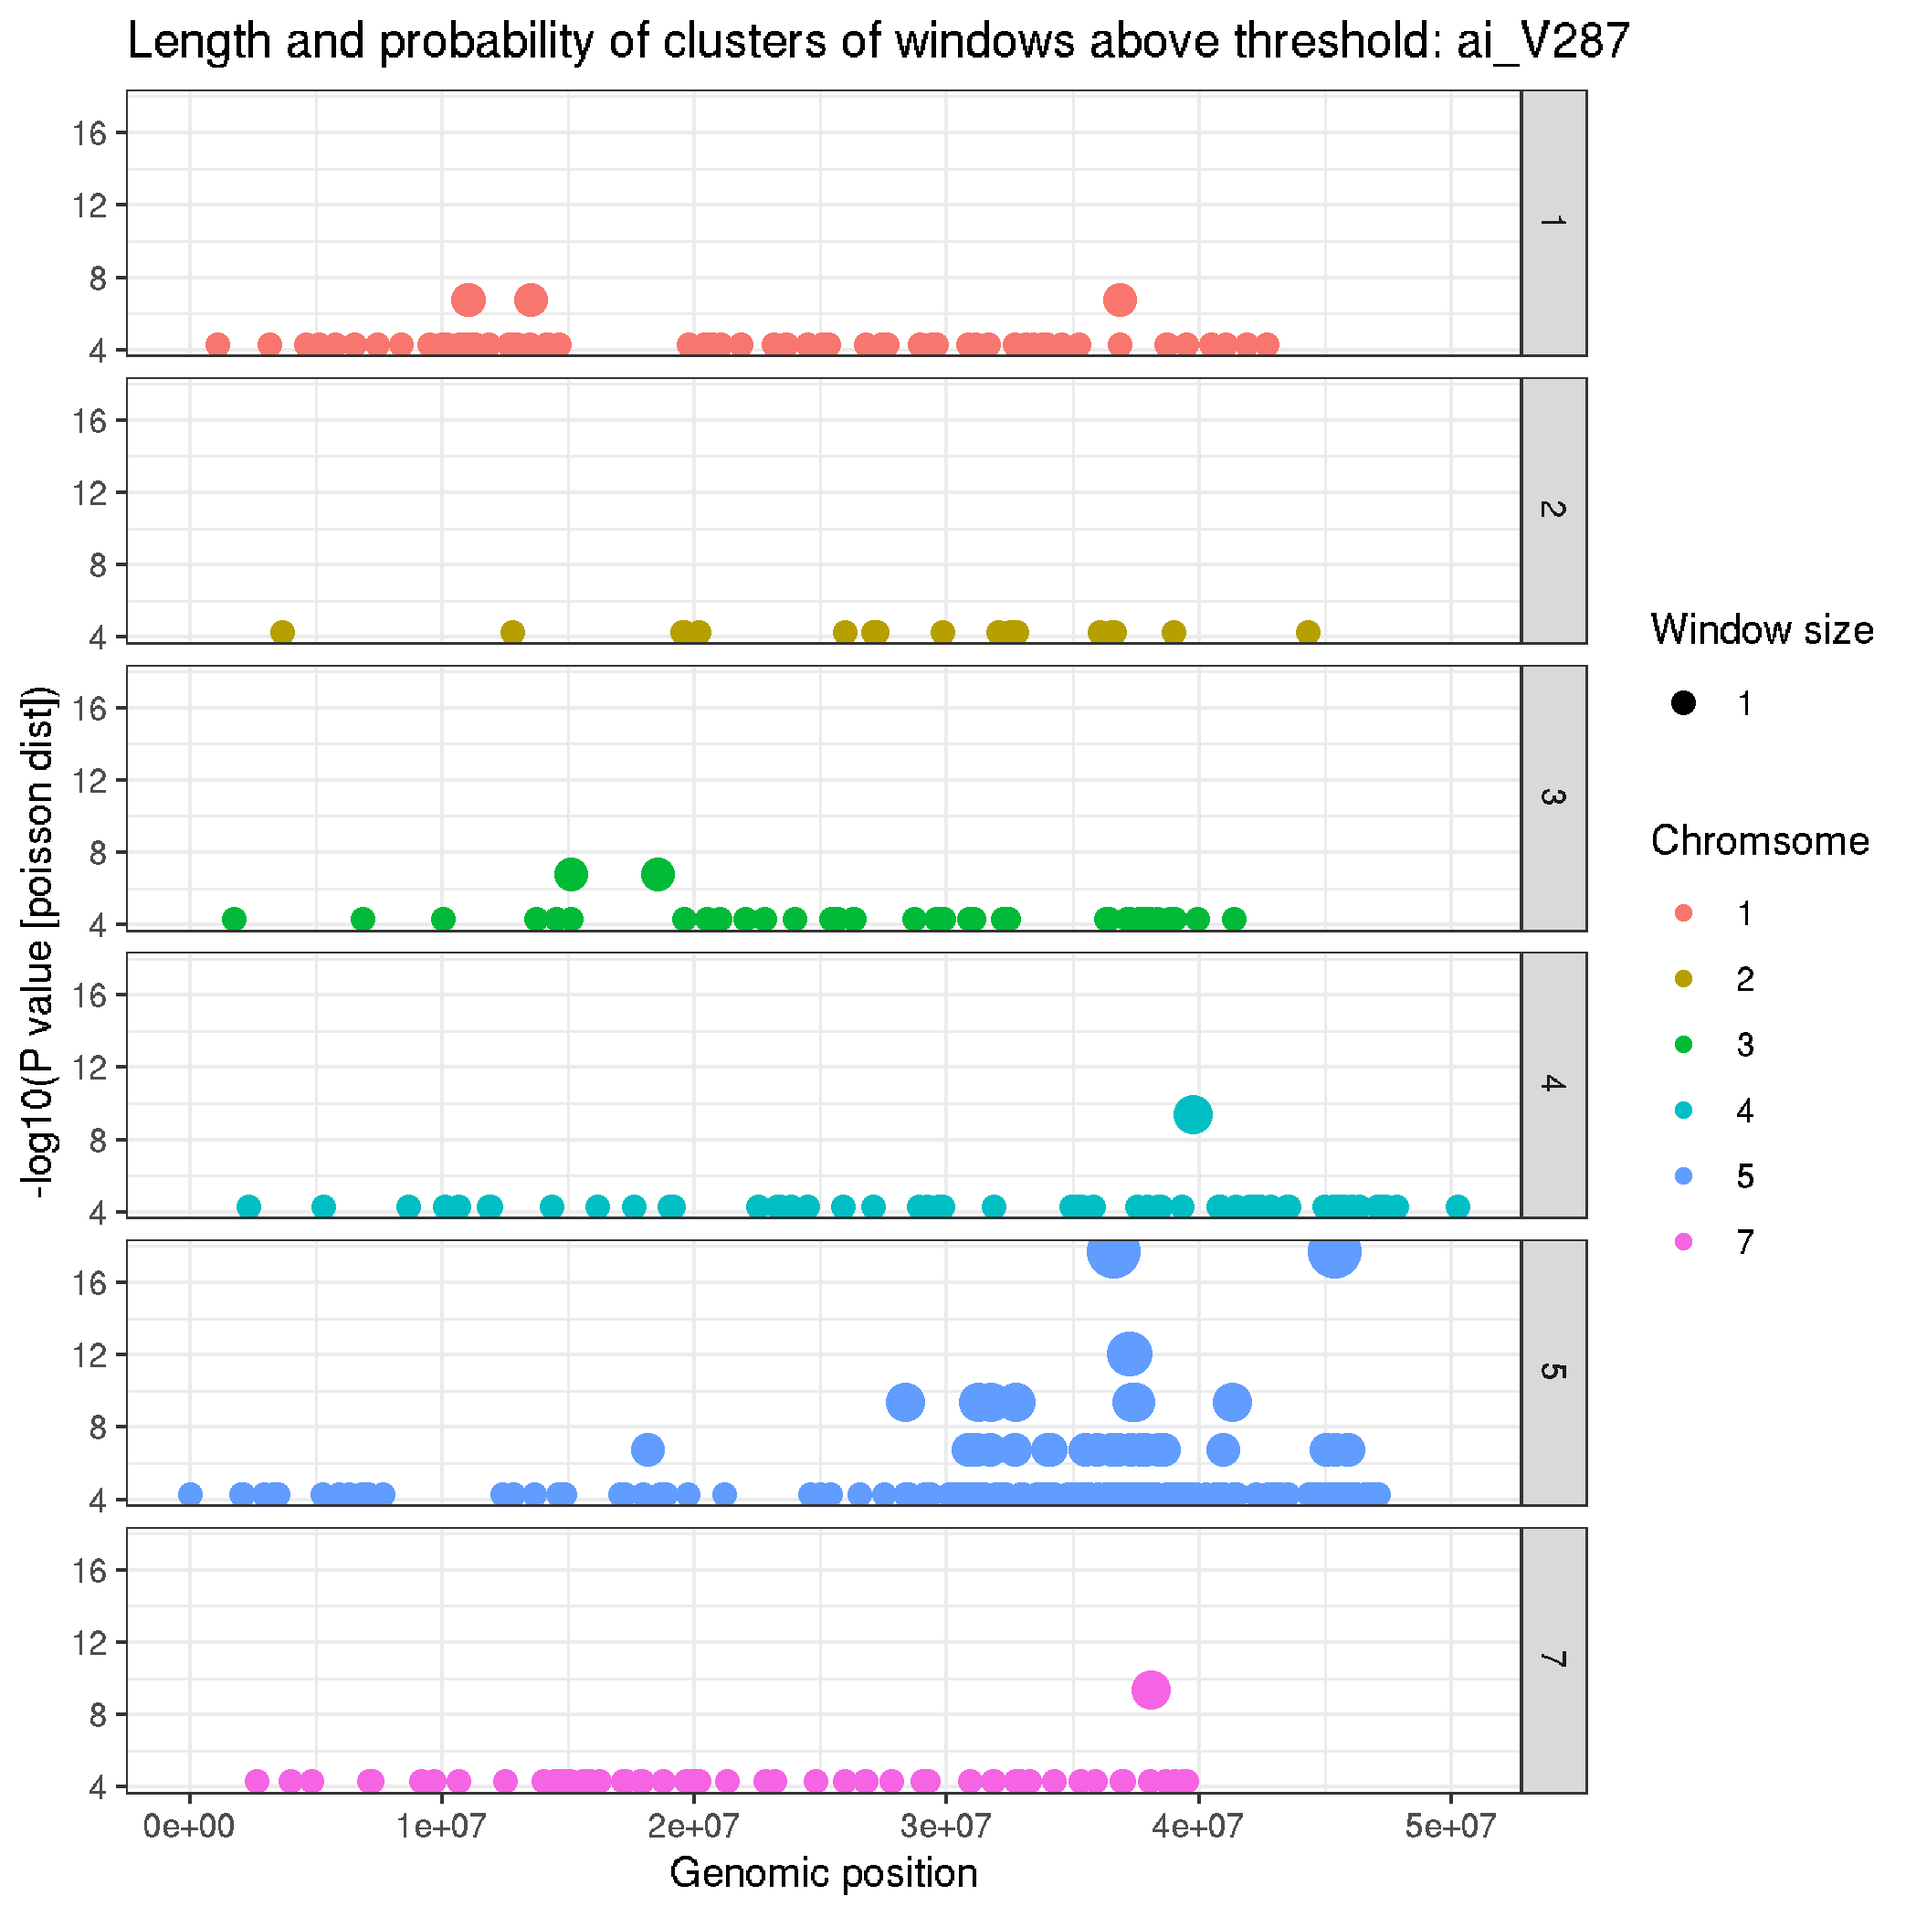
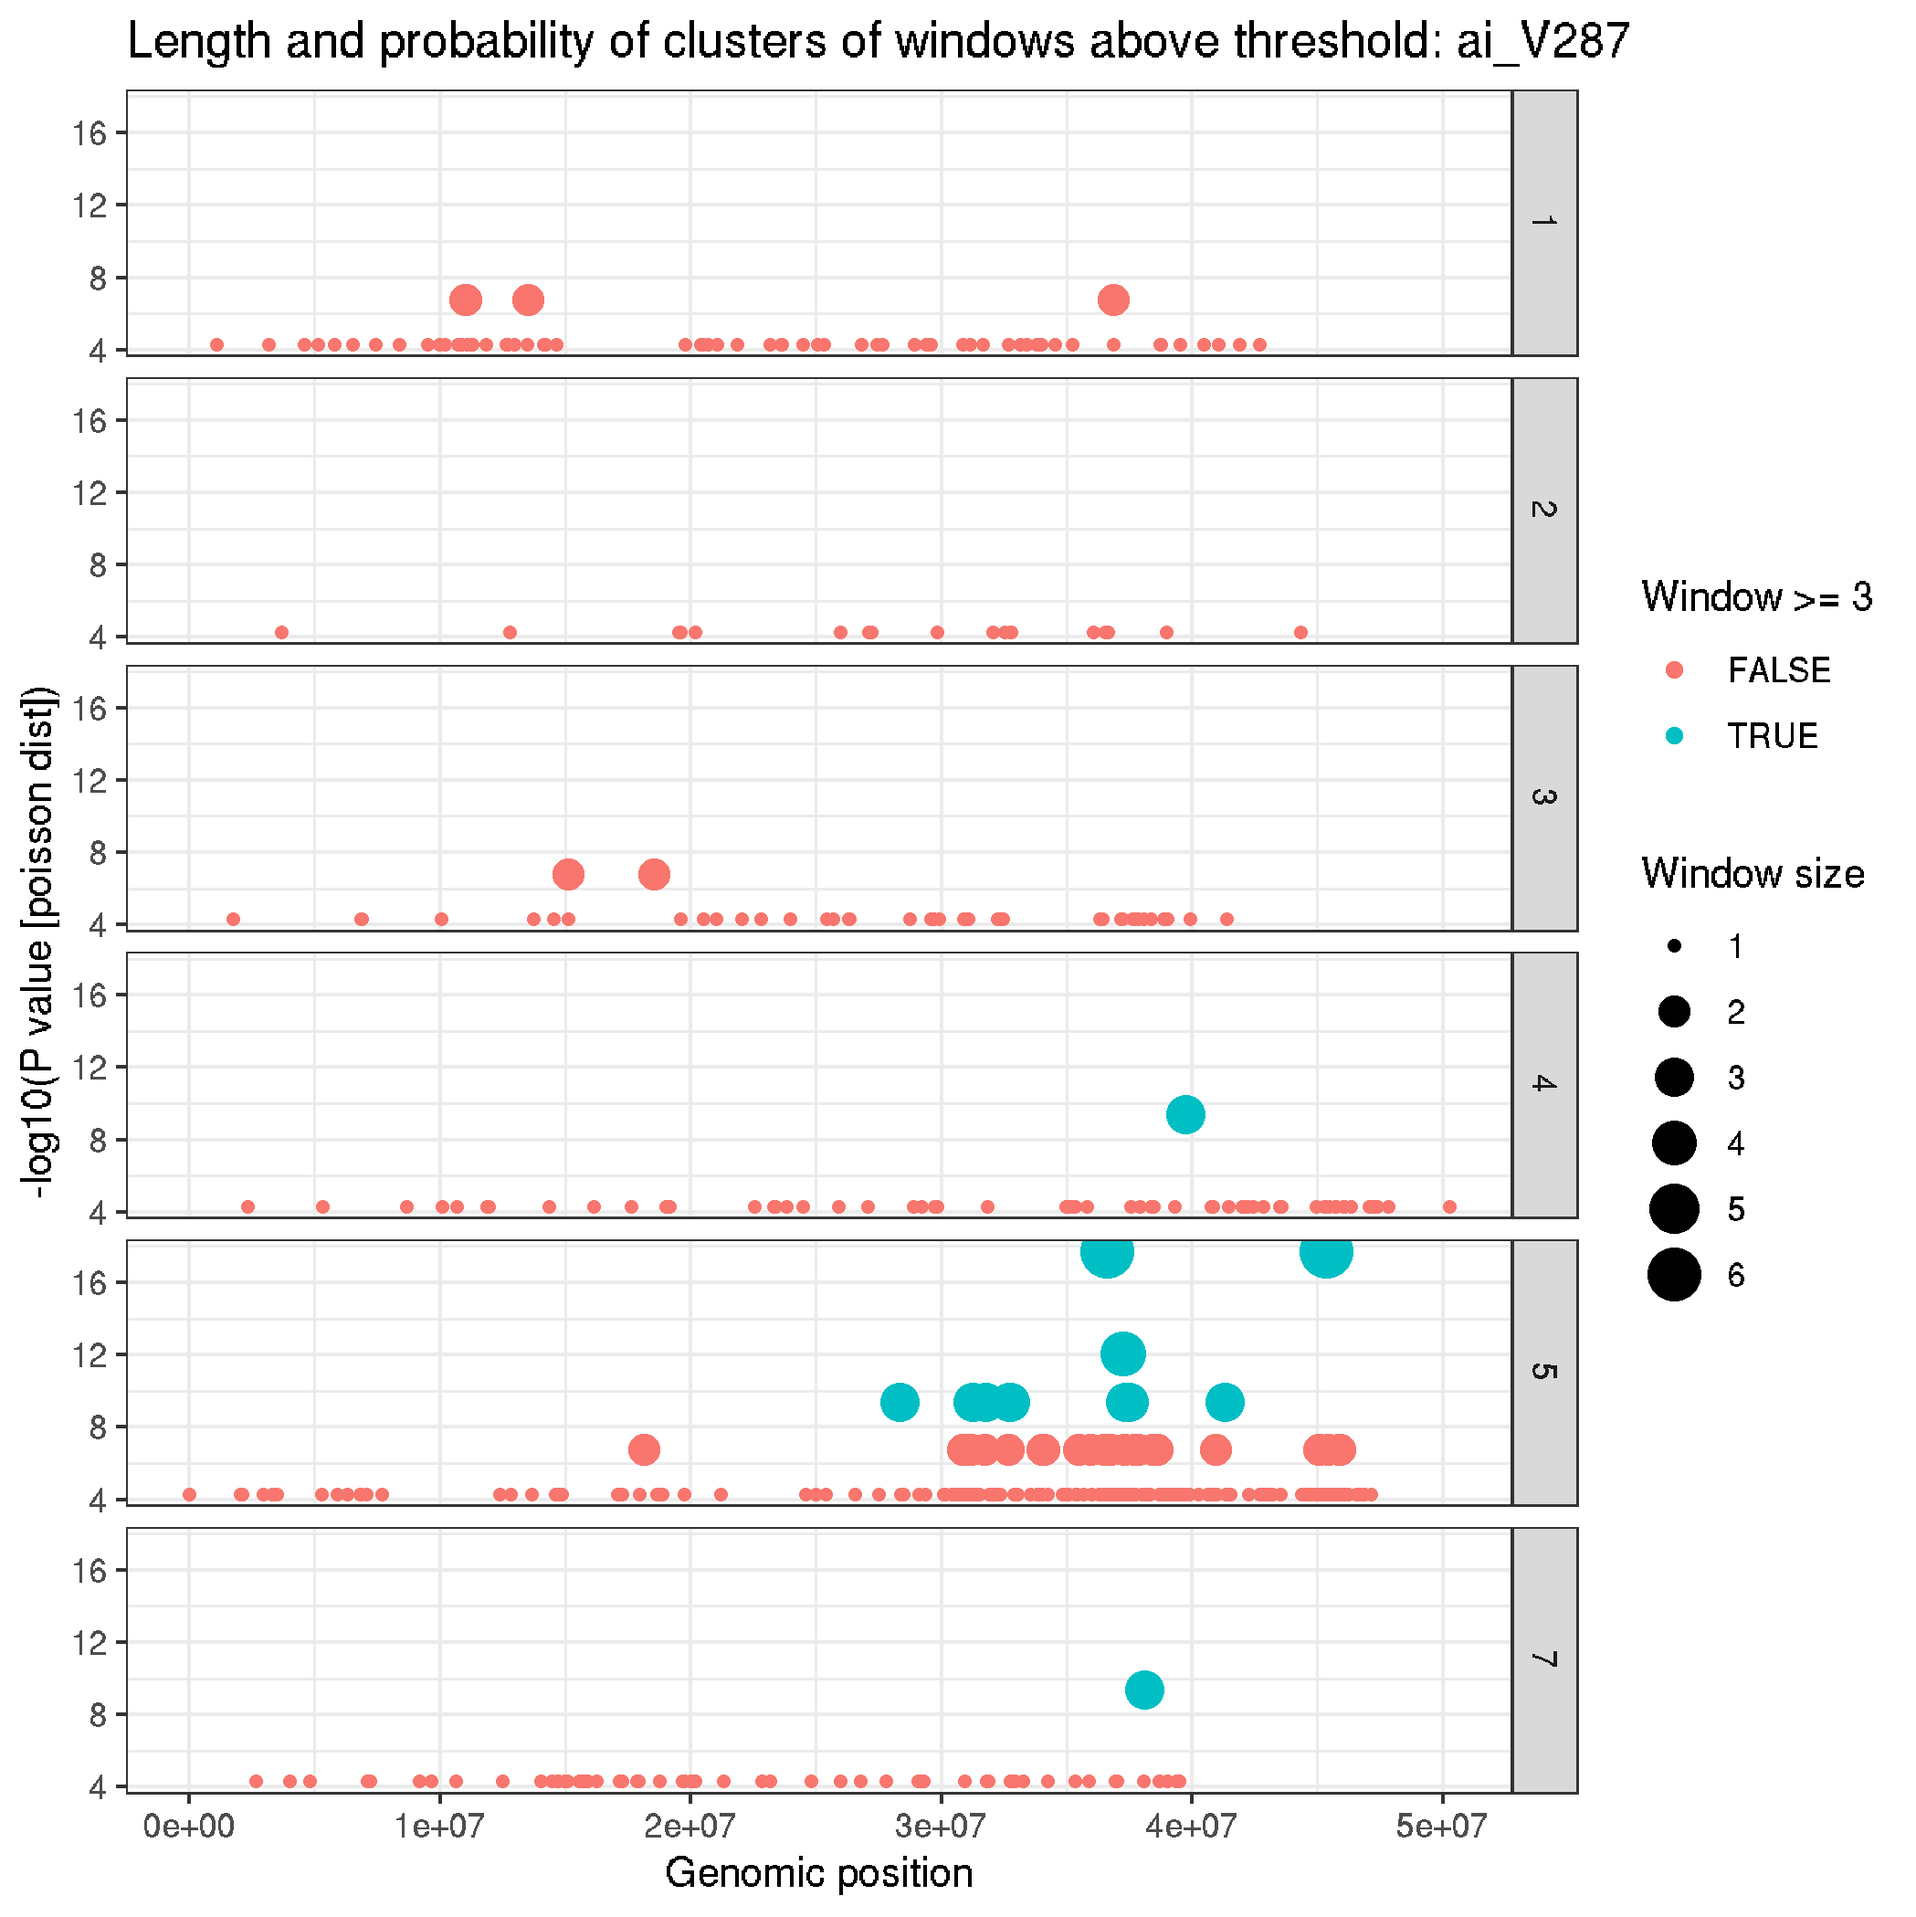
update

diff --git a/03_code/hcontrotus_xqtl_fdr.md b/03_code/hcontrotus_xqtl_fdr.md
@@ -400,7 +400,7 @@ fst_cutoff <- abs(zscore) * sd(sample$V13) + mean(sample$V13)
 # plotting genome wide length of clusters of windows above threshold, and significance of those clusters
 ```R
 # define function
-f_plot_gw_clusters <- function(x, title){
+fun_plot_gw_clusters <- function(x, title){
 
 # collect data above threshold. In this case, above mean + 3*sd
 sig_values <- filter(x, V13 > (mean(V13) + 3*sd(V13)))
@@ -412,7 +412,7 @@ f_windows <- nrow(filter(x, V13 > (mean(V13) + 3*sd(V13)))) / nrow(x)
 
 # define function to calculate runs of consecutive window positions
 # maodified from: https://stackoverflow.com/questions/16118050/how-to-check-if-a-vector-contains-n-consecutive-numbers
-seqle <- function(chr,x,incr) {
+fun_seqle <- function(chr,x,incr) {
   if(!is.numeric(x)) x <- as.numeric(x)
   n <- length(x)  
   y <- x[-1L] != x[-n] + incr
@@ -423,18 +423,17 @@ seqle <- function(chr,x,incr) {
 }
 
 # run seqle and reformat
-sig_values_clusters <- seqle(sig_values$V1,sig_values$V2,5000)
+sig_values_clusters <- fun_seqle(sig_values$V1,sig_values$V2,5000)
 sig_values_clusters <-as.data.frame(cbind(sig_values_clusters$chromosome,sig_values_clusters$lengths,sig_values_clusters$values))
 colnames(sig_values_clusters) <- c("chromosome", "count", "position")
 
 
 # make a plot
-plot <- ggplot(sig_values_clusters, aes(x=(position+(count*5000)/2), -log10(ppois(count, lambda=f_windows, lower=F)), col=as.factor(chromosome), size=count)) +
-     geom_point() +
+plot <- ggplot(sig_values_clusters, aes(x=(position+(count*5000)/2), -log10(ppois(count, lambda=f_windows, lower=F)), col=count>=3)) +
+     geom_point(aes(size=count)) +
      facet_grid(chromosome~.)+
-     scale_size_area(breaks=c(1,10,20))+
      theme_bw()+
-     labs(title=paste0("Length and probability of clusters of windows above threshold: ", title), y="-log10(P value [poisson dist])", x="Genomic position", col="Chromsome", size="Window size")
+     labs(title=paste0("Length and probability of clusters of windows above threshold: ", title), y="-log10(P value [poisson dist])", x="Genomic position", col="Window >= 3", size="Window size")
 
 print(plot)
 
@@ -442,9 +441,9 @@ print(plot)
 ggsave(paste0("xqtl_",title,"_gw_possion_windows.png"))
 }
 
-f_plot_gw_clusters(bz, "benzimidazole")
-f_plot_gw_clusters(lev, "levamisole")
-f_plot_gw_clusters(ivm, "ivermectin")
+fun_plot_gw_clusters(bz, "benzimidazole")
+fun_plot_gw_clusters(lev, "levamisole")
+fun_plot_gw_clusters(ivm, "ivermectin")
 #size=count/max(count)
 
 #ggplot(test2) + geom_segment(aes(x=position,xend=(position+(count*5000)),y=-log10(ppois(count, lambda=f_windows, lower=F)), yend=-log10(ppois(count, lambda=f_windows, lower=F)))) + facet_grid(chromosome~.)
@@ -476,7 +475,7 @@ ai_V305 <- select(ai,c(V1,V2,V305,id))
 colnames(ai_V305) <- c("chr","pos","fst","id")
 
 # define function
-f_plot_gw_clusters <- function(x, title){
+fun_plot_gw_clusters <- function(x, title){
 
 require(ggplot2)
 
@@ -490,7 +489,7 @@ f_windows <- nrow(filter(x, fst> (mean(fst) + 3*sd(fst)))) / nrow(x)
 
 # define function to calculate runs of consecutive window positions
 # maodified from: https://stackoverflow.com/questions/16118050/how-to-check-if-a-vector-contains-n-consecutive-numbers
-seqle <- function(chr,x,incr) {
+fun_seqle <- function(chr,x,incr) {
   if(!is.numeric(x)) x <- as.numeric(x)
   n <- length(x)  
   y <- x[-1L] != x[-n] + incr
@@ -501,18 +500,19 @@ seqle <- function(chr,x,incr) {
 }
 
 # run seqle and reformat
-sig_values_clusters <- seqle(sig_values$chr,sig_values$pos,5000)
+sig_values_clusters <- fun_seqle(sig_values$chr,sig_values$pos,5000)
 sig_values_clusters <-as.data.frame(cbind(sig_values_clusters$chromosome,sig_values_clusters$lengths,sig_values_clusters$values))
 colnames(sig_values_clusters) <- c("chromosome", "count", "position")
 
 
 # make a plot
-plot <- ggplot(sig_values_clusters, aes(x=(position+(count*5000)/2), -log10(ppois(count, lambda=f_windows, lower=F)), col=as.factor(chromosome), size=count)) +
-     geom_point() +
+plot <- ggplot(sig_values_clusters, aes(x=(position+(count*5000)/2), -log10(ppois(count, lambda=f_windows, lower=F)), col=count>=3)) +
+     geom_point(aes(size=count)) +
      facet_grid(chromosome~.)+
-     scale_size_area(breaks=c(1,10,20))+
      theme_bw()+
-     labs(title=paste0("Length and probability of clusters of windows above threshold: ", title), y="-log10(P value [poisson dist])", x="Genomic position", col="Chromsome", size="Window size")
+     labs(title=paste0("Length and probability of clusters of windows above threshold: ", title), y="-log10(P value [poisson dist])", x="Genomic position", col="Window >= 3", size="Window size")
+
+# geom_jitter(aes(color = V13.x > mean(control$V13)+3*sd(control$V13), size = V13.x > mean(control$V13)+3*sd(control$V13)))+
 
 print(plot)
 
@@ -520,9 +520,9 @@ print(plot)
 ggsave(paste0("xqtl_",title,"_gw_possion_windows.png"))
 }
 
-f_plot_gw_clusters(ai_V287, "ai_V287")
-f_plot_gw_clusters(ai_V297, "ai_V297")
-f_plot_gw_clusters(ai_V305, "ai_V305")
+fun_plot_gw_clusters(ai_V287, "ai_V287")
+fun_plot_gw_clusters(ai_V297, "ai_V297")
+fun_plot_gw_clusters(ai_V305, "ai_V305")
 ```
 ![](../04_analysis/xqtl_ai_V287_gw_possion_windows.png)
 ![](../04_analysis/xqtl_ai_V297_gw_possion_windows.png)
